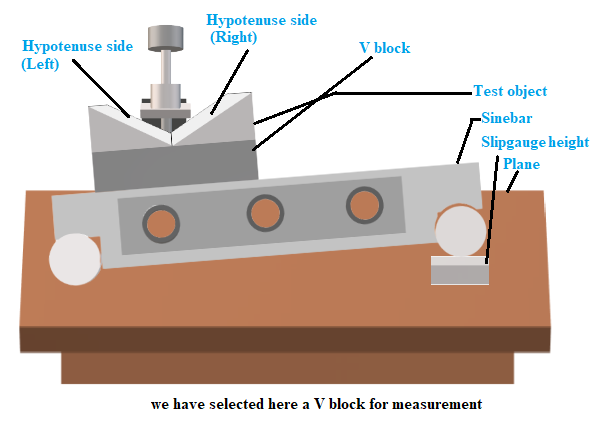
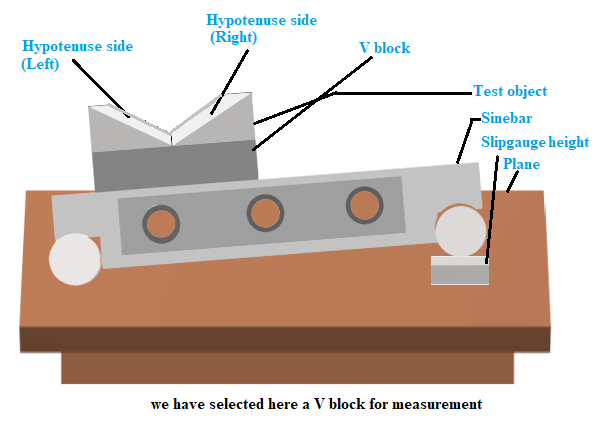
Final commit2

Changed region(s): [[0.1803, 0.0618, 0.3606, 0.3397]]

diff --git a/experiment/simulation/js/sinebar.js b/experiment/simulation/js/sinebar.js
@@ -47,9 +47,9 @@ document.getElementById('dbtn').disabled = false;
 
 function MoveobjR(){
 	document.getElementById('obj').classList.remove("moveLeftobj");
-		   document.getElementById('holder').classList.remove("moveLeftholder");
+		  // document.getElementById('holder').classList.remove("moveLeftholder");
 	 document.getElementById('obj').classList.add("moveRightobj");
-	 document.getElementById('holder').classList.add("moveRightholder");
+	 //document.getElementById('holder').classList.add("moveRightholder");
 	$('#chkside').val(2); 
 	
 	document.getElementById('cb').style.left = 82 +"%";
@@ -65,9 +65,9 @@ function MoveobjR(){
 
 function MoveobjL(){
 	document.getElementById('obj').classList.remove("moveRightobj");
-		   document.getElementById('holder').classList.remove("moveRightholder");
+		   //document.getElementById('holder').classList.remove("moveRightholder");
 	 document.getElementById('obj').classList.add("moveLeftobj");
-	 document.getElementById('holder').classList.add("moveLeftholder");
+	 //document.getElementById('holder').classList.add("moveLeftholder");
 	 $('#chkside').val(1);	
 	 
 	 document.getElementById('cb').style.left = -6 +"%";

diff --git a/experiment/simulation/index.html b/experiment/simulation/index.html
@@ -188,7 +188,7 @@
 			
 			
 			<img class="img-fluid" id = "bar" src="./images/bar2.png" >
-			<img class="img-fluid" id = "holder" src="./images/holder.png">
+			<!--<img class="img-fluid" id = "holder" src="./images/holder.png">-->
 			<img class="img-fluid" id = "obj" src="./images/testobj2.png">
 			
 			<img class="img-fluid" id ="slipgauge" src="./images/slipgauge.png" >
